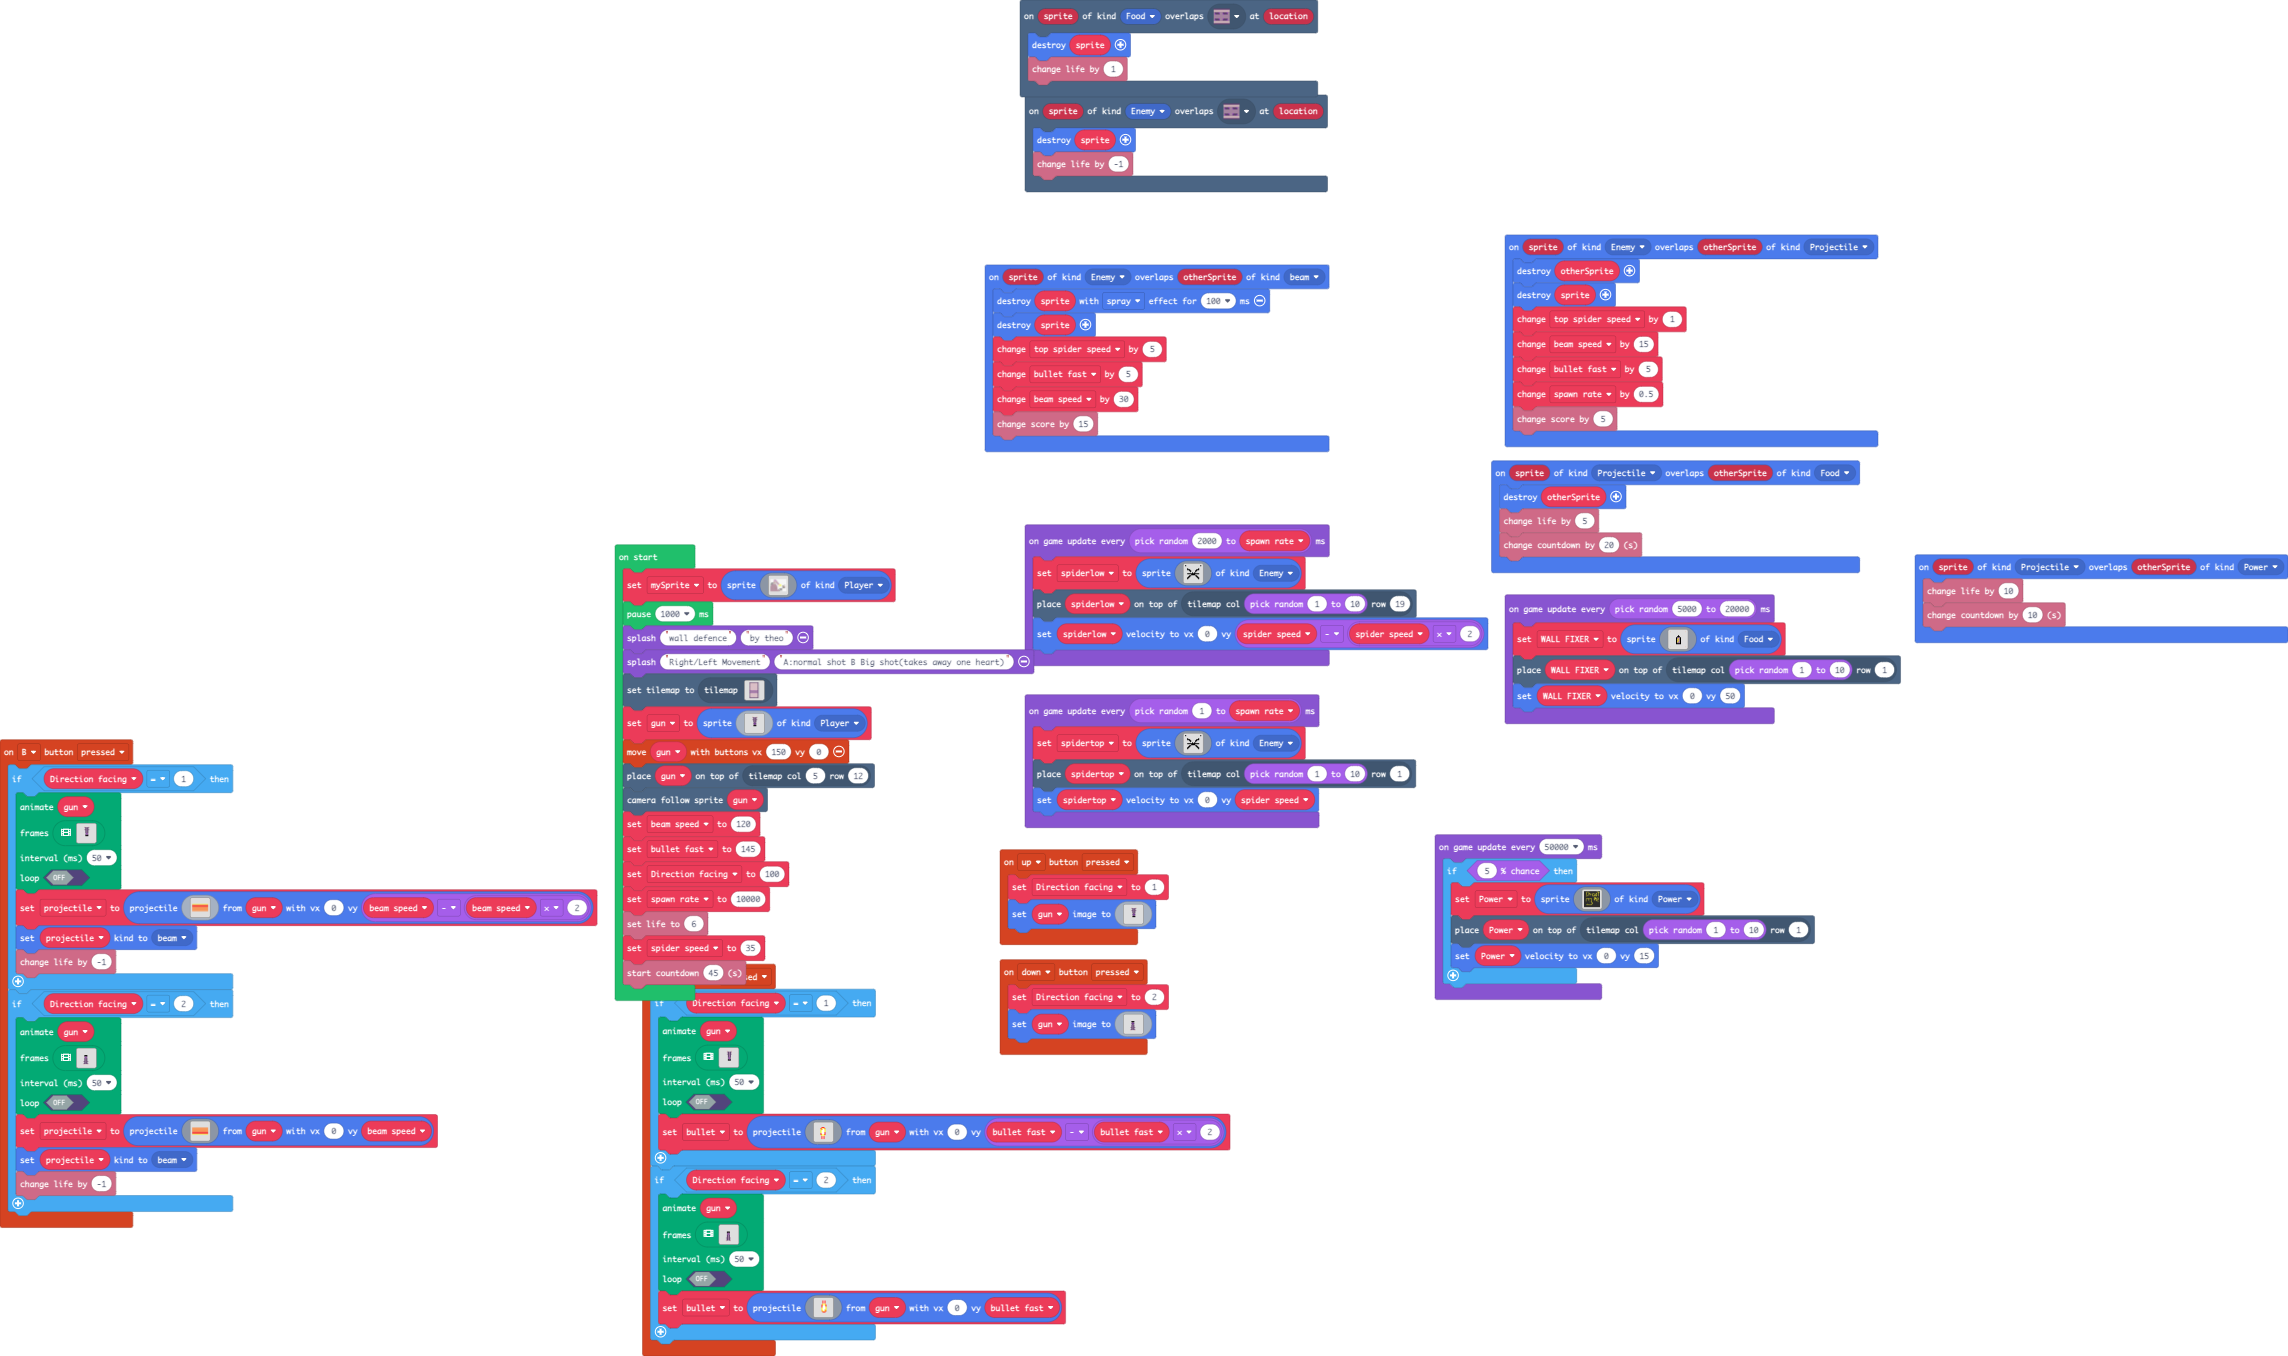
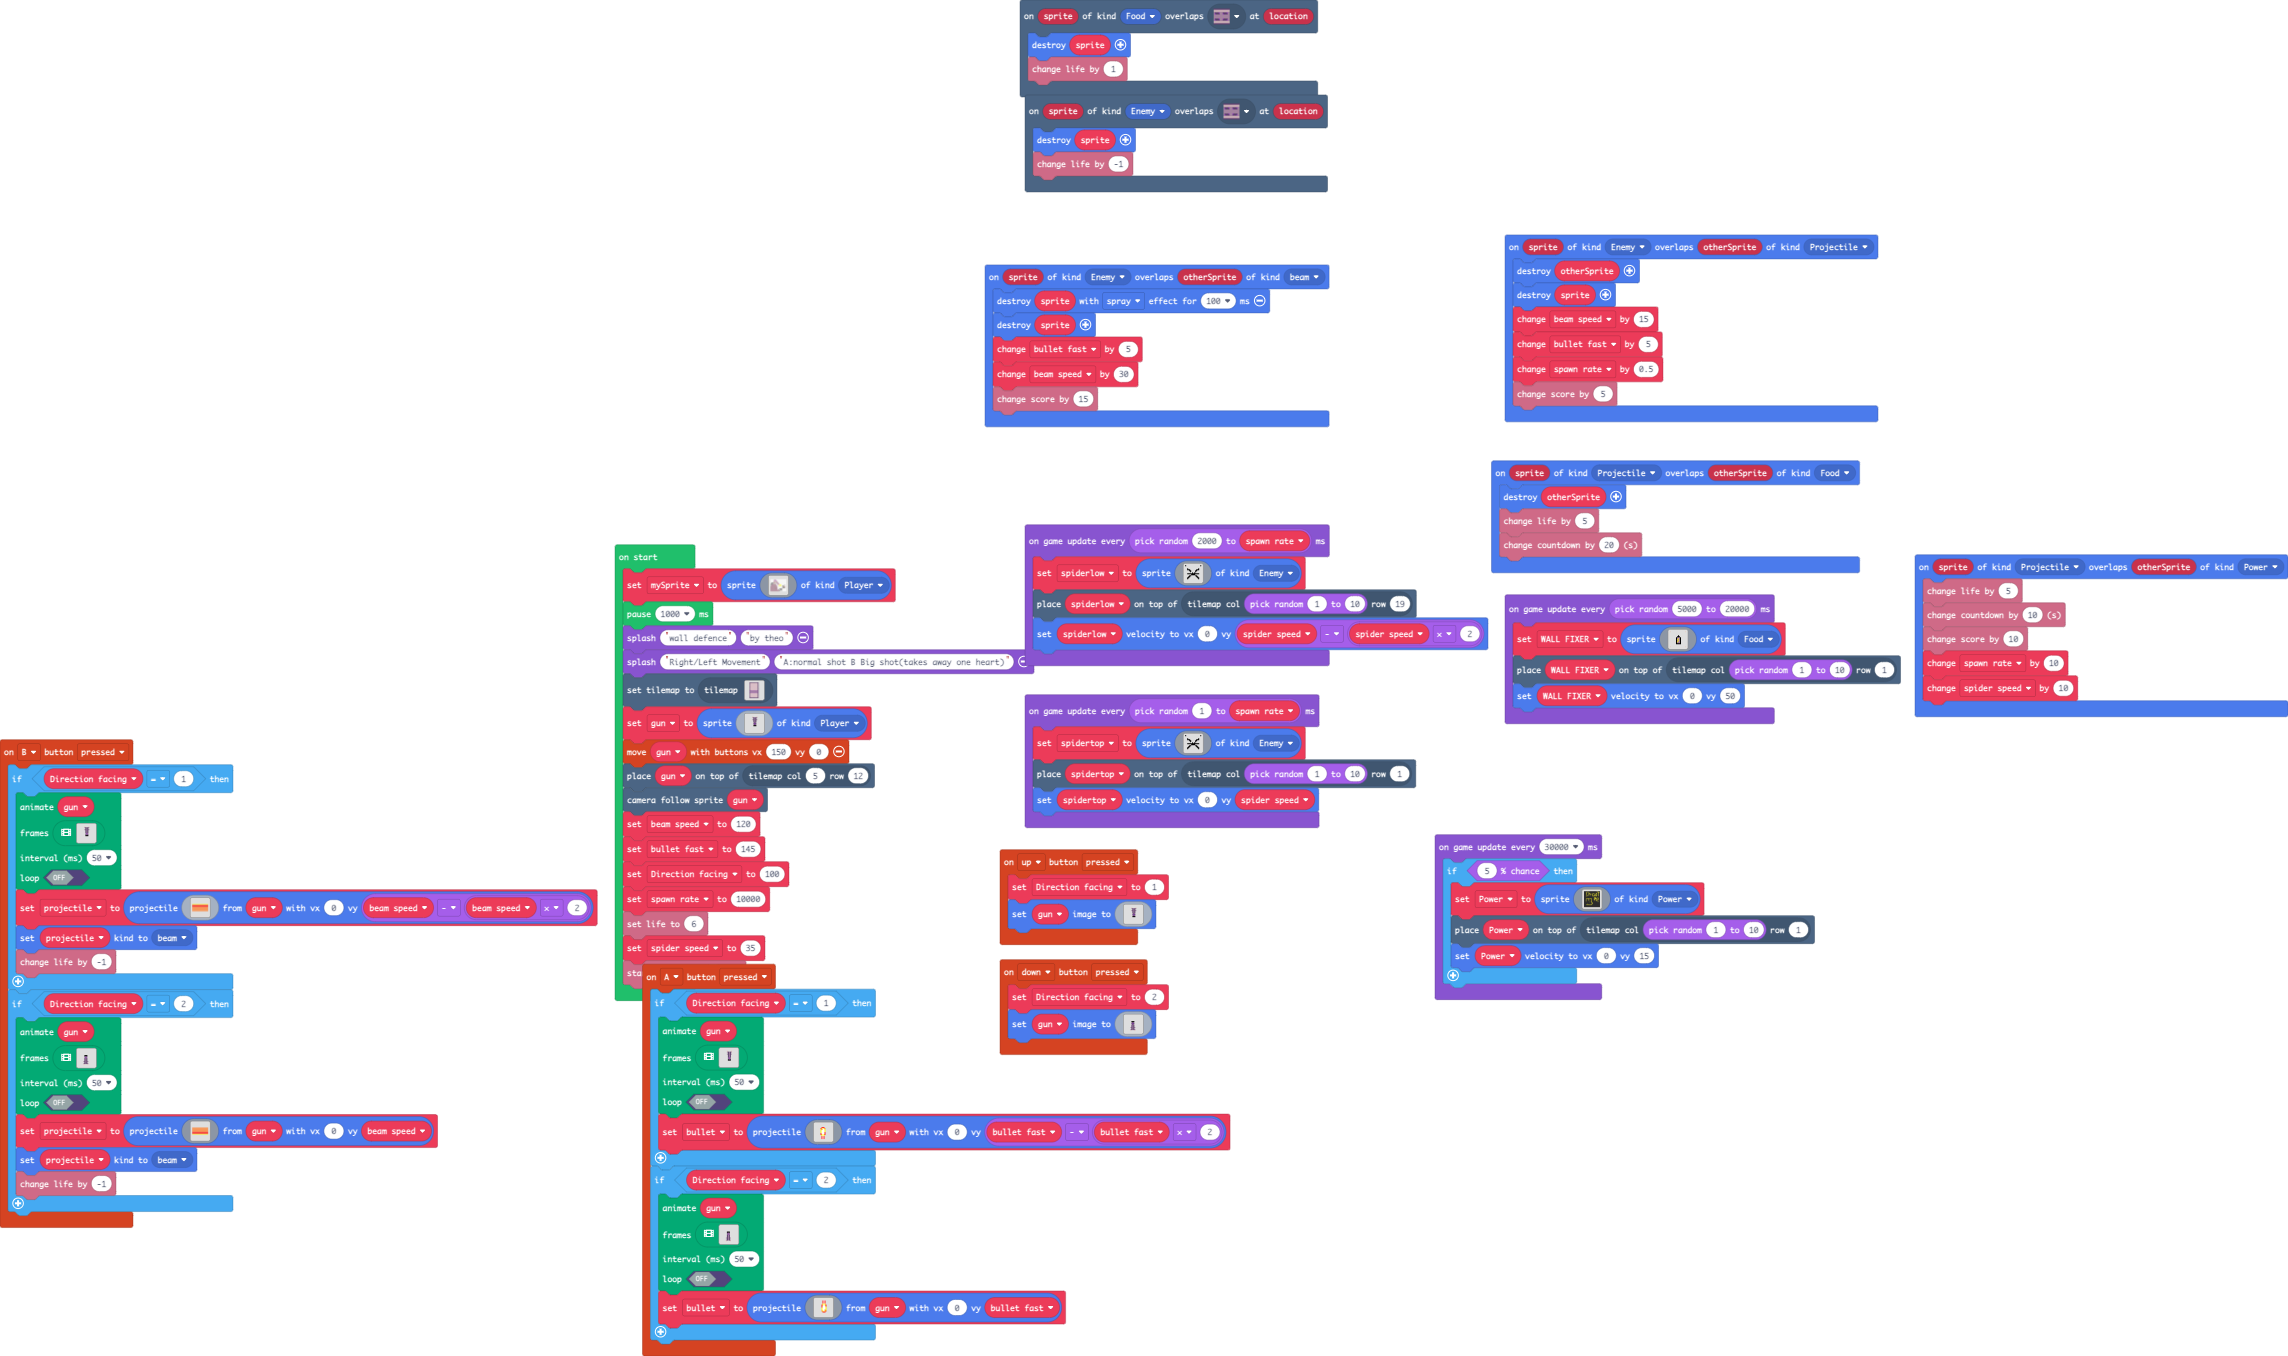
Update main.blocks, main.ts, tilemap.g.jres, tilemap.g.ts

diff --git a/main.ts b/main.ts
@@ -1043,15 +1043,17 @@ controller.A.onEvent(ControllerButtonEvent.Pressed, function () {
 sprites.onOverlap(SpriteKind.Enemy, SpriteKind.Projectile, function (sprite, otherSprite) {
     sprites.destroy(otherSprite)
     sprites.destroy(sprite)
-    top_spider_speed += 1
     beam_speed += 15
     bullet_fast += 5
     spawn_rate += 0.5
     info.changeScoreBy(5)
 })
 sprites.onOverlap(SpriteKind.Projectile, SpriteKind.Power, function (sprite, otherSprite) {
-    info.changeLifeBy(10)
+    info.changeLifeBy(5)
     info.changeCountdownBy(10)
+    info.changeScoreBy(10)
+    spawn_rate += 10
+    spider_speed += 10
 })
 controller.down.onEvent(ControllerButtonEvent.Pressed, function () {
     Direction_facing = 2
@@ -1077,7 +1079,6 @@ controller.down.onEvent(ControllerButtonEvent.Pressed, function () {
 sprites.onOverlap(SpriteKind.Enemy, SpriteKind.beam, function (sprite, otherSprite) {
     sprites.destroy(sprite, effects.spray, 100)
     sprites.destroy(sprite)
-    top_spider_speed += 5
     bullet_fast += 5
     beam_speed += 30
     info.changeScoreBy(15)
@@ -1086,7 +1087,6 @@ let Power: Sprite = null
 let WALL_FIXER: Sprite = null
 let spiderlow: Sprite = null
 let spidertop: Sprite = null
-let top_spider_speed = 0
 let bullet: Sprite = null
 let projectile: Sprite = null
 let Direction_facing = 0
@@ -1313,7 +1313,7 @@ game.onUpdateInterval(randint(5000, 20000), function () {
     tiles.placeOnTile(WALL_FIXER, tiles.getTileLocation(randint(1, 10), 1))
     WALL_FIXER.setVelocity(0, 50)
 })
-game.onUpdateInterval(50000, function () {
+game.onUpdateInterval(30000, function () {
     if (Math.percentChance(5)) {
         Power = sprites.create(img`
             ffffffffffffffffffffffffffffffffffffffff

diff --git a/tilemap.g.ts b/tilemap.g.ts
@@ -56,6 +56,25 @@ namespace myTiles {
 . . . . . . . . . . . . . . . . 
 . . . . . . . . . . . . . . . . 
 `, [myTiles.transparency16], TileScale.Sixteen);
+            case "level3":
+            case "level3":return tiles.createTilemap(hex`1000100000000000000000000000000000000000000000000000000000000000000000000000000000000000000000000000000000000000000000000000000000000000000000000000000000000000000000000000000000000000000000000000000000000000000000000000000000000000000000000000000000000000000000000000000000000000000000000000000000000000000000000000000000000000000000000000000000000000000000000000000000000000000000000000000000000000000000000000000000000000000000000000000000000000000000000000000000000000000000000000000000000000000000000000000000000000`, img`
+. . . . . . . . . . . . . . . . 
+. . . . . . . . . . . . . . . . 
+. . . . . . . . . . . . . . . . 
+. . . . . . . . . . . . . . . . 
+. . . . . . . . . . . . . . . . 
+. . . . . . . . . . . . . . . . 
+. . . . . . . . . . . . . . . . 
+. . . . . . . . . . . . . . . . 
+. . . . . . . . . . . . . . . . 
+. . . . . . . . . . . . . . . . 
+. . . . . . . . . . . . . . . . 
+. . . . . . . . . . . . . . . . 
+. . . . . . . . . . . . . . . . 
+. . . . . . . . . . . . . . . . 
+. . . . . . . . . . . . . . . . 
+. . . . . . . . . . . . . . . . 
+`, [myTiles.transparency16], TileScale.Sixteen);
         }
         return null;
     })
